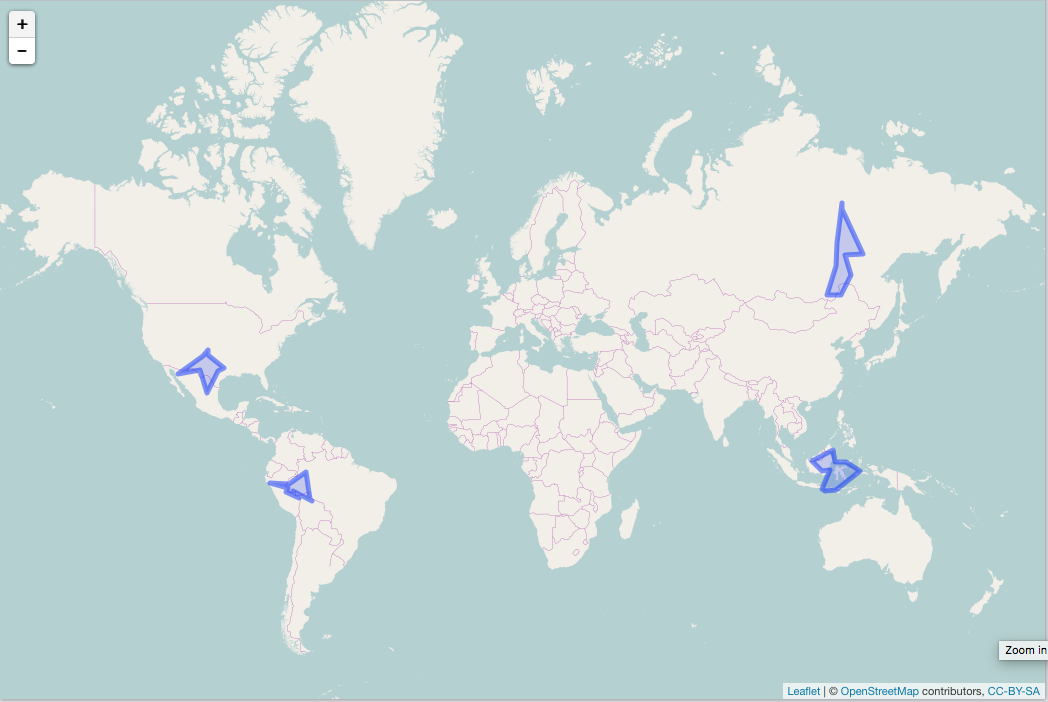
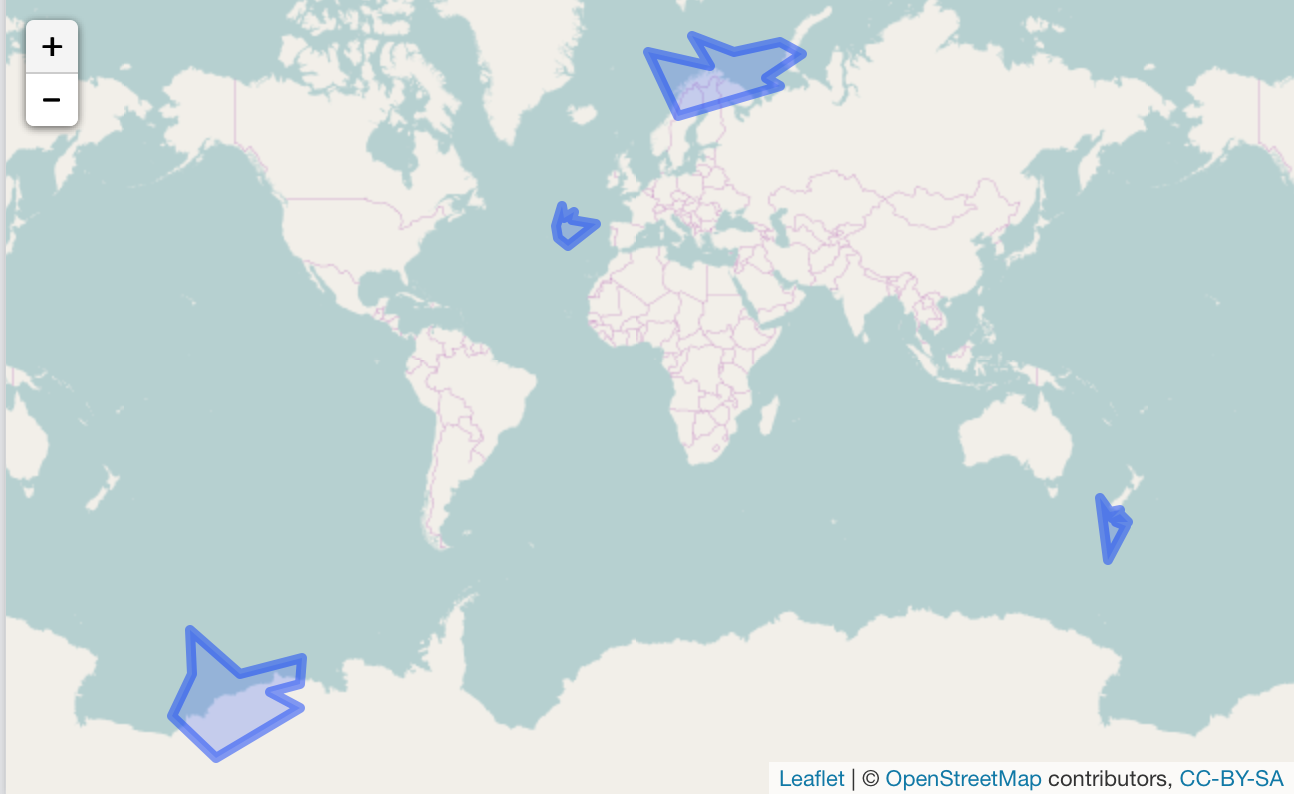
Update all docs

diff --git a/README.md b/README.md
@@ -46,7 +46,7 @@ library("randgeo")
 ```r
 rg_position()
 #> [[1]]
-#> [1] -15.44412 -38.92475
+#> [1] -60.99727 -17.67208
 ```
 
 ## random GeoJSON
@@ -69,7 +69,7 @@ geo_point()
 #> [1] "Point"
 #> 
 #> $features[[1]]$geometry$coordinates
-#> [1]  16.47672 -74.05690
+#> [1] -158.42574  -42.74468
 #> 
 #> 
 #> $features[[1]]$properties
@@ -96,37 +96,37 @@ geo_polygon()
 #> $features[[1]]$geometry$coordinates
 #> $features[[1]]$geometry$coordinates[[1]]
 #> $features[[1]]$geometry$coordinates[[1]][[1]]
-#> [1] 155.48675  83.14403
+#> [1] 160.35517  72.95089
 #> 
 #> $features[[1]]$geometry$coordinates[[1]][[2]]
-#> [1] 161.44543  79.63525
+#> [1] 164.60923  74.56425
 #> 
 #> $features[[1]]$geometry$coordinates[[1]][[3]]
-#> [1] 157.6343  79.8766
+#> [1] 160.00658  72.16615
 #> 
 #> $features[[1]]$geometry$coordinates[[1]][[4]]
-#> [1] 154.01417  77.26018
+#> [1] 167.4745  73.8971
 #> 
 #> $features[[1]]$geometry$coordinates[[1]][[5]]
-#> [1] 148.58069  79.78645
+#> [1] -179.07399   73.78682
 #> 
 #> $features[[1]]$geometry$coordinates[[1]][[6]]
-#> [1] 149.22902  82.59558
+#> [1] 179.38836  69.61161
 #> 
 #> $features[[1]]$geometry$coordinates[[1]][[7]]
-#> [1] 148.89058  85.07908
+#> [1] 165.29475  71.08091
 #> 
 #> $features[[1]]$geometry$coordinates[[1]][[8]]
-#> [1] 145.9176  87.6202
+#> [1] 144.26124  64.58493
 #> 
 #> $features[[1]]$geometry$coordinates[[1]][[9]]
-#> [1] 151.3219  88.6061
+#> [1] 158.95471  71.87775
 #> 
 #> $features[[1]]$geometry$coordinates[[1]][[10]]
-#> [1] 153.26898  90.73207
+#> [1] 155.71951  74.30541
 #> 
 #> $features[[1]]$geometry$coordinates[[1]][[11]]
-#> [1] 155.48675  83.14403
+#> [1] 160.35517  72.95089
 #> 
 #> 
 #> 
@@ -152,7 +152,7 @@ point
 
 ```r
 wkt_point()
-#> [1] "POINT (-163.2614716 -83.3048749)"
+#> [1] "POINT (-20.0155081 -14.7482874)"
 ```
 
 polygon
@@ -160,7 +160,7 @@ polygon
 
 ```r
 wkt_polygon()
-#> [1] "POLYGON ((89.8048585 61.8254312, 88.9329390 60.7697099, 92.5001356 58.0362473, 93.8532175 53.5291327, 88.5455690 59.9501290, 90.1393320 56.1050423, 89.0807555 56.4119115, 82.1906641 60.6291550, 83.4751727 68.4828310, 88.2114607 66.3359247, 89.8048585 61.8254312))"
+#> [1] "POLYGON ((-112.4009176 17.1798778, -106.3876922 17.6107603, -107.3491035 7.1251803, -111.1108246 11.6772536, -107.5070658 5.2593379, -112.5562679 12.9757496, -118.4648956 13.7521589, -116.4839306 18.1692495, -116.2859821 20.2412508, -112.8601892 14.2883748, -112.4009176 17.1798778))"
 ```
 
 ## Meta
